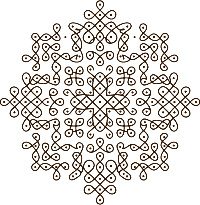
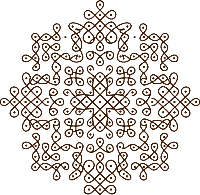
style(curve): adapt kolam artwork directly to wave curvature with tangent alignment and embedded svg integration

diff --git a/src/components/EditorialHero.tsx b/src/components/EditorialHero.tsx
@@ -111,16 +111,19 @@ export const EditorialHero: React.FC<EditorialHeroProps> = ({ navigate }) => {
               d="M0,145 C350,235 530,265 720,210 C950,145 1150,95 1440,195 L1440,280 L0,280 Z" 
               fill="#FFFDF7" 
             />
+            {/* Authentic South Indian Kolam linework embedded directly onto the curve sweep */}
+            <g transform="translate(720, 195) rotate(-16)">
+              <image 
+                href="/brand/kolam-dark-brown-pure.png" 
+                x="-46" 
+                y="-45" 
+                width="92" 
+                height="90" 
+                preserveAspectRatio="xMidYMid meet"
+                style={{ filter: 'drop-shadow(0px 2px 5px rgba(48, 23, 4, 0.35))' }}
+              />
+            </g>
           </svg>
-
-          {/* Authentic South Indian Kolam art in dark brown - linework only directly on the curve (no button/border) */}
-          <div className="curve-center-kolam" aria-hidden="true">
-            <img 
-              src="/brand/kolam-dark-brown-pure.png" 
-              alt="Traditional South Indian Kolam Art" 
-              className="kolam-dark-brown-lines"
-            />
-          </div>
         </div>
       </section>
 
@@ -405,24 +408,6 @@ export const EditorialHero: React.FC<EditorialHeroProps> = ({ navigate }) => {
           width: 100%;
           height: 100%;
           display: block;
-        }
-
-        .curve-center-kolam {
-          position: absolute;
-          bottom: 34px;
-          left: 50%;
-          transform: translateX(-50%);
-          z-index: 5;
-          pointer-events: none;
-        }
-
-        .kolam-dark-brown-lines {
-          width: 58px;
-          height: 58px;
-          object-fit: contain;
-          display: block;
-          filter: drop-shadow(0 2px 4px rgba(48, 23, 4, 0.28));
-          transition: transform 0.25s ease;
         }
 
         /* ── NEXT SECTION: FOOD DISCOVERY TEASER (CENTERED) ── */
